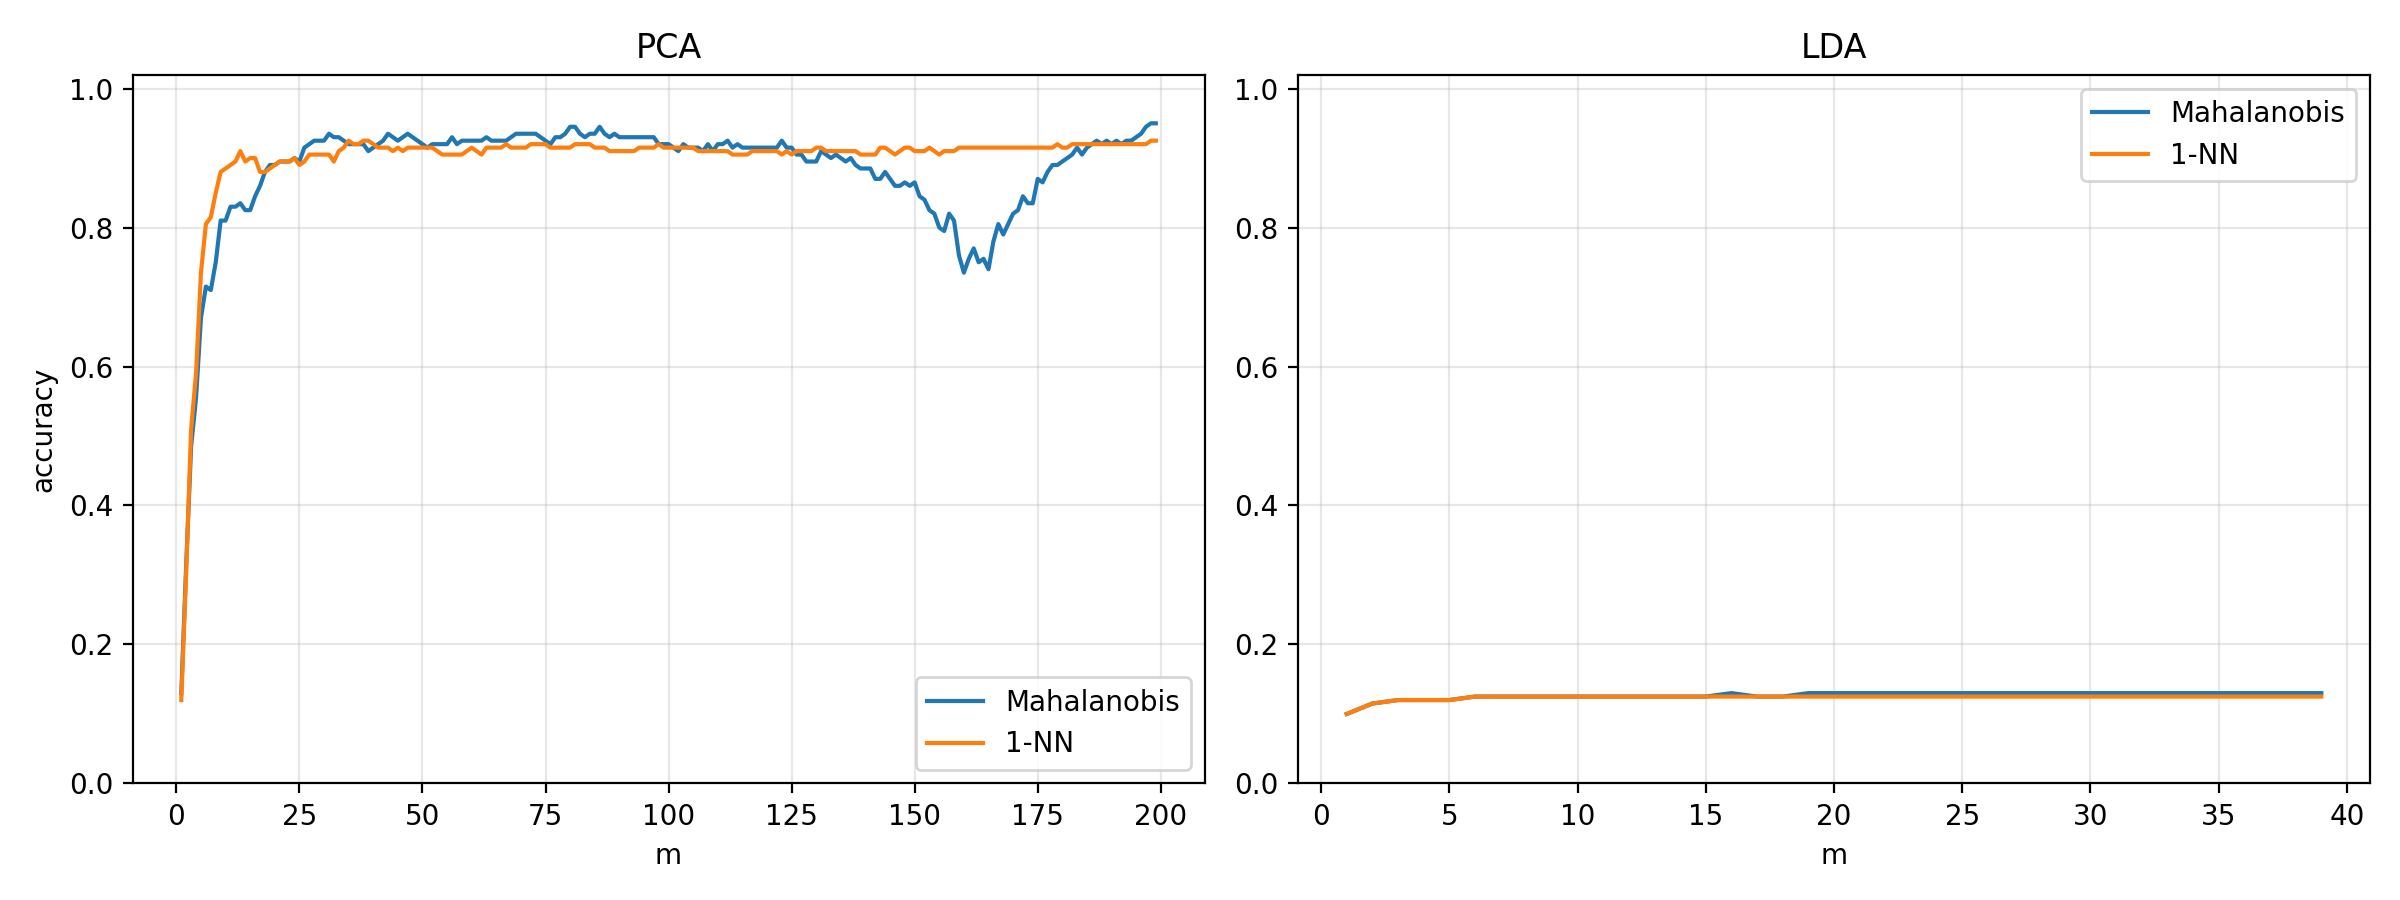
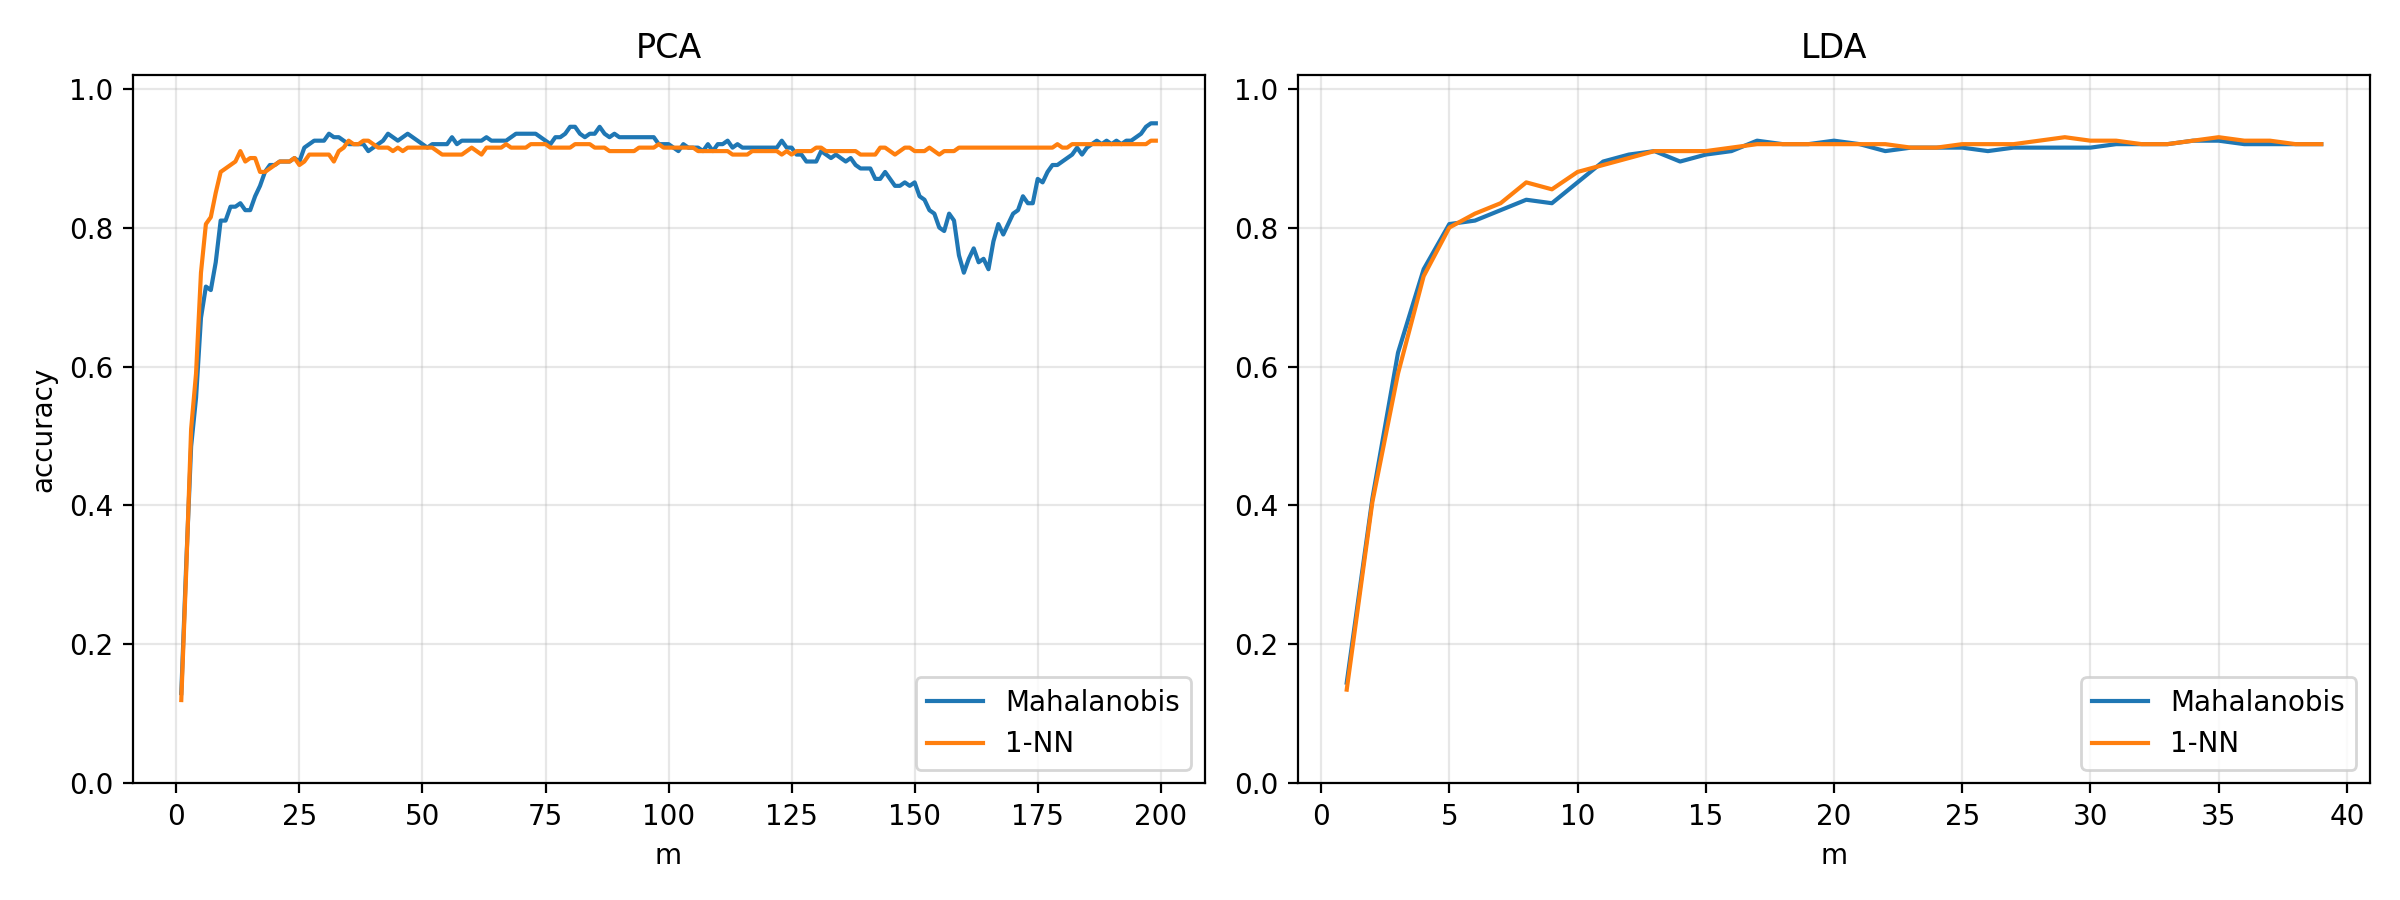
Fix LDA numerical breakdown at d=N-C, regenerate results
- LDA_PCA_STAGE 160 -> 100: at N-C the within-class scatter sits exactly
  on its rank boundary (cond ~1e8) and the top generalized eigenvector
  is spurious; the LDA curve was near chance (0.13) despite 100% train
  accuracy. d=100 verified stable across seeds (0.92-0.96).
- dimreduce: scale the LDA ridge by trace(S_W), consistent with the
  classifier's ridge semantics
- run_experiment: reuse centered training data; persist the
  shuffle-control accuracy in settings.json
- visualize: actually plot k=15 eigenfaces (the parameter was ignored)
- regenerated outputs: LDA best 0.93 (was 0.13), PCA unchanged
  (best 0.95), shuffled-label control 0.030

diff --git a/src/visualize.py b/src/visualize.py
@@ -19,15 +19,15 @@ def save_mean_and_eigenfaces(mean_face,comps, path, k=15):
         v = v.reshape((IMG_H, IMG_W))
         v = (v - v.min()) / (v.max() - v.min() + 1e-8)
         return v
-    fig, axes = plt.subplots(2, 8, figsize=(16, 4))
-    axes[0, 0].imshow(mean_face.reshape((IMG_H, IMG_W)), cmap="gray")
-    axes[0, 0].set_title("mean")
-    for ax in axes[0, 1:]:
+    ncols = 8
+    fig, axes = plt.subplots(2, ncols, figsize=(2 * ncols, 4))
+    slots = axes.ravel()  # 2x8=16 个槽位：均值 + 前 k 张 eigenface
+    slots[0].imshow(mean_face.reshape((IMG_H, IMG_W)), cmap="gray")
+    slots[0].set_title("mean")
+    for i in range(k):
+        slots[i + 1].imshow(norm_img(comps[i]), cmap="gray")
+    for ax in slots:
         ax.axis("off")
-    for i, ax in enumerate(axes[1]):
-        ax.imshow(norm_img(comps[i]), cmap="gray")
-        ax.axis("off")
-    axes[0, 0].axis("off")
     fig.tight_layout()
     fig.savefig(path, dpi=200)
     plt.close(fig)

diff --git a/src/run_experiment.py b/src/run_experiment.py
@@ -25,8 +25,8 @@ def main():
     assert len(set(tr) & set(te)) == 0 and len(tr) + len(te) == 400
     print(f"split: train={len(tr)}, test={len(te)}")
 
-    mu, Xc = center_train(X[tr])
-    Xc_tr, Xc_te = X[tr] - mu, X[te] - mu
+    mu, Xc_tr = center_train(X[tr])
+    Xc_te = X[te] - mu
     y_tr, y_te = y[tr], y[te]
 
     # PCA
@@ -74,7 +74,7 @@ def main():
     settings = dict(seed=C.SEED, n_train_per_class=C.N_TRAIN_PER_CLASS,
                     hist_eq=args.hist_eq, m_pca_max=C.M_PCA_MAX,
                     m_lda_max=C.M_LDA_MAX, lda_pca_stage=C.LDA_PCA_STAGE,
-                    ridge=C.RIDGE)
+                    ridge=C.RIDGE, shuffle_acc=round(float(acc_shuf), 4))
     (C.RES_DIR / "settings.json").write_text(json.dumps(settings, indent=2))
     print("done.")
 

diff --git a/src/config.py b/src/config.py
@@ -9,11 +9,10 @@ RES_DIR = OUT_DIR / "results"
 
 SEED = 42
 N_TRAIN_PER_CLASS = 5 #每人5张训练，5张测试
-N_TRAIN_PER_CLASS = 5 # 直方图
 IMG_H, IMG_W = 112, 92
 D = IMG_H * IMG_W
 N_CLASSES = 40              # C
 M_PCA_MAX = 199             # N_tr（总共200样本） - 1
 M_LDA_MAX = 39              # C - 1
-LDA_PCA_STAGE = 160         # N_tr - C，让子空间里 S_W 满秩
+LDA_PCA_STAGE = 100         # 160=N_tr−C 处 S_W 恰在秩边界、数值奇异；取 100 留余量
 RIDGE = 1e-6                # 正则项，用于数值稳定

diff --git a/src/dimreduce.py b/src/dimreduce.py
@@ -48,7 +48,7 @@ class LDA:
             diff_mu = (mu_c - mu).reshape(-1, 1)
             S_B += Zc.shape[0] * (diff_mu @ diff_mu.T)  
 
-        S_W += self.ridge * np.eye(d)  # 正则化
+        S_W += self.ridge * np.trace(S_W) * np.eye(d)  # 尺度化正则（与分类器一致）
 
         vals, vecs = eigh(S_B, S_W)
         vals, vecs = vals[::-1], vecs[:, ::-1]  # 按特征值从大到小排序
